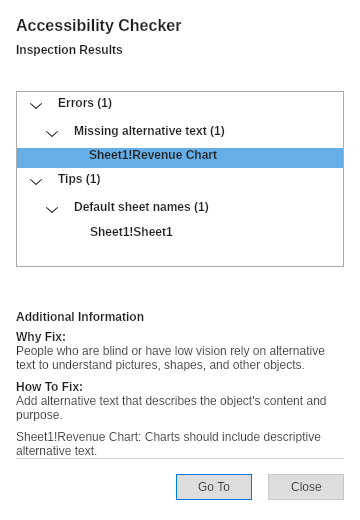
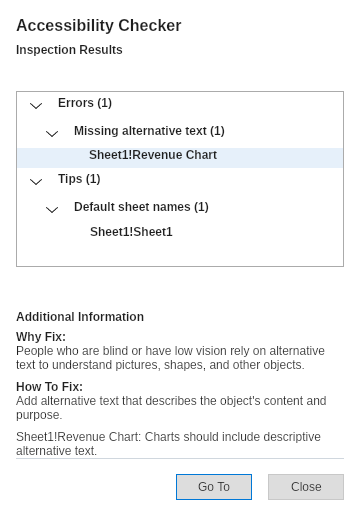
Align FreeX Accessibility Checker selection parity

Changed region(s): [[0.0306, 0.2769, 0.9778, 0.3385]]

diff --git a/src/FreeX.App.Avalonia/MainWindow.AccessibilityChecker.cs b/src/FreeX.App.Avalonia/MainWindow.AccessibilityChecker.cs
@@ -163,6 +163,17 @@ public sealed partial class MainWindow
                 new Setter(TemplatedControl.BorderThicknessProperty, new Thickness(0)),
             },
         });
+        resultsTree.Styles.Add(new Style(s => s.OfType<TreeViewItem>()
+            .Class(":selected")
+            .Template().OfType<Border>().Name("PART_LayoutRoot"))
+        {
+            Setters =
+            {
+                new Setter(Border.BackgroundProperty, new SolidColorBrush(Color.FromRgb(0xE6, 0xF0, 0xFA))),
+                new Setter(Border.BorderBrushProperty, Brushes.Transparent),
+                new Setter(Border.BorderThicknessProperty, new Thickness(0)),
+            },
+        });
         ApplyAutomation(resultsTree, plan.IssueListAutomation);
 
         var resultsBorder = new Border

diff --git a/tests/FreeX.App.Avalonia.Tests/AccessibilityCheckerSourceTests.cs b/tests/FreeX.App.Avalonia.Tests/AccessibilityCheckerSourceTests.cs
@@ -60,6 +60,8 @@ public sealed class AccessibilityCheckerSourceTests
         avaloniaSource.Should().Contain("AvaloniaCompactDialogChrome.WindowsStyle");
         avaloniaSource.Should().Contain("AccessibilityCheckerDialogMetrics.ResultsTreeHeight");
         avaloniaSource.Should().Contain("Class(\":selected\")");
+        avaloniaSource.Should().Contain("Template().OfType<Border>().Name(\"PART_LayoutRoot\")");
+        avaloniaSource.Should().Contain("Color.FromRgb(0xE6, 0xF0, 0xFA)");
         avaloniaSource.Should().Contain("AccessibilityCheckerDialogMetrics.ActionButtonWidth");
         wpfSource.Should().Contain("Width = AccessibilityCheckerDialogMetrics.Width;");
         wpfSource.Should().Contain("Height = AccessibilityCheckerDialogMetrics.Height;");

diff --git a/docs/parity/avalonia-parity-wave131-freex-accessibility-20260803.md b/docs/parity/avalonia-parity-wave131-freex-accessibility-20260803.md
@@ -1,0 +1,34 @@
+# Avalonia Parity Wave131: FreeX Accessibility Checker
+
+This wave makes one bounded visual parity improvement to FreeX `dialog.AccessibilityChecker`. The shared `AccessibilityCheckerDialogPlanner`, `AccessibilityCheckerDialogMetrics`, fixture, actions, automation metadata, and navigation ownership were already shared or correctly separated between WPF and Avalonia. The remaining high-signal product-owned mismatch in the fresh pair was Avalonia's selected TreeView row: the Fluent template's internal `PART_LayoutRoot` still rendered a saturated blue selection despite the existing item-level pale selection style.
+
+## Change
+
+Avalonia now applies the WPF-authoritative pale `#E6F0FA` selection fill and transparent border to the selected TreeView item's `PART_LayoutRoot`. The change is local to Accessibility Checker and does not replace the native TreeView template, expand/collapse behavior, selection behavior, keyboard focus, Go To routing, or shared dialog chrome.
+
+## Fresh evidence
+
+- Base: worker branch `codex/avalonia-parity-wave131-freex-accessibility-20260803` at `45af68c1e6beffe805b5917884f5c901a74da847`, current `origin/main`.
+- WPF: `FreeX.App.Host --parity-capture --parity-capture-target dialog.AccessibilityChecker`, current-source targeted direct parity renderer, `360x520` at `96 DPI`, exit `0`.
+- Avalonia: `tools/Run-LinuxParityCapture.ps1` from a fresh worker publish in Ubuntu 24.04 Docker/Xvfb, `--parity-capture-surface dialog.AccessibilityChecker`, `360x520` at `96 DPI`, `app_exit=0`, `capture_validated=true`.
+- Both promoted PNGs are nonblank, equal in logical and raw dimensions, and pass the expected-size/content gates. Only this dialog's PNGs and manifest rows were promoted. The cross-app dashboard was not regenerated.
+
+## Metrics
+
+| Metric | Before | After | Change |
+| --- | ---: | ---: | ---: |
+| Triage score | 0.084354 | 0.066619 | -21.02% |
+| Sample delta | 0.054555 | 0.044489 | -18.45% |
+| Luma delta | 0.008707 | 0.001039 | -88.07% |
+| Non-background delta | 0.020812 | 0.020812 | unchanged |
+
+The before values are a fresh matched WPF/Linux pair captured before editing, not stale canonical evidence. The after values are a fresh matched pair after the Avalonia edit. The canonical dialog visual summary was regenerated and its `dialog.AccessibilityChecker` row now reports the after values.
+
+## Residuals
+
+The score is improved, not zero. Remaining differences are primarily native/text rendering: Avalonia's Fluent TreeView disclosure chevrons versus the WPF direct parity renderer's literal `v` glyphs, font and anti-aliasing metrics, and native button surface/text rasterization. The non-background coverage delta is unchanged. This wave does not claim live WPF window capture parity because the WPF authority path is the repository's current planner-backed direct parity renderer used by the canonical evidence contract.
+
+## Focused verification
+
+- `dotnet test tests/FreeX.App.Avalonia.Tests/FreeX.App.Avalonia.Tests.csproj --configuration Release --filter FullyQualifiedName~AccessibilityCheckerSourceTests --logger "trx;LogFileName=wave131-accessibility-source.trx" --disable-build-servers -p:UseSharedCompilation=false -p:NodeReuse=false /nr:false -m:1`: passed `4/4`.
+- `powershell.exe -NoProfile -ExecutionPolicy Bypass -File tools/Generate-DialogVisualEvidenceSummary.ps1 -Check`: passed after canonical promotion.

diff --git a/docs/parity/dialog-visual-evidence-summary.md b/docs/parity/dialog-visual-evidence-summary.md
@@ -63,7 +63,6 @@ Outliers are ranked by a deterministic triage score: normalized 32x32 ARGB sampl
 | Surface id | WPF logical size | Avalonia logical size | Raw PNG sizes | Bucket | Evidence flag | Score | Sample delta | Luma delta | Non-bg delta |
 | --- | ---: | ---: | --- | --- | --- | ---: | ---: | ---: | ---: |
 | dialog.About | 560x420 | 560x420 | 560x420 px @ 96 DPI vs 560x420 px @ 96 DPI |  |  | 0.107 | 0.071 | 0.014 | 0.021 |
-| dialog.AccessibilityChecker | 360x520 | 360x520 | 360x520 px @ 96 DPI vs 360x520 px @ 96 DPI |  |  | 0.084 | 0.055 | 0.009 | 0.021 |
 | dialog.ShapeGradient | 500x300 | 500x300 | 500x300 px @ 96 DPI vs 500x300 px @ 96 DPI |  |  | 0.082 | 0.055 | 0.022 | 0.004 |
 | dialog.AllowEditRanges | 430x420 | 430x420 | 430x420 px @ 96 DPI vs 430x420 px @ 96 DPI |  |  | 0.079 | 0.022 | 0.014 | 0.042 |
 | dialog.Sparkline | 380x280 | 380x280 | 380x280 px @ 96 DPI vs 380x280 px @ 96 DPI |  |  | 0.077 | 0.054 | 0.001 | 0.022 |
@@ -72,6 +71,7 @@ Outliers are ranked by a deterministic triage score: normalized 32x32 ARGB sampl
 | dialog.ChangeChartType | 640x390 | 640x390 | 960x585 px @ 144 DPI vs 640x390 px @ 96 DPI |  |  | 0.070 | 0.036 | 0.008 | 0.025 |
 | dialog.PivotTableOptions.Display | 520x500 | 520x500 | 520x500 px @ 96 DPI vs 520x500 px @ 96 DPI |  |  | 0.069 | 0.045 | 0.006 | 0.019 |
 | dialog.InsertHyperlink | 560x300 | 560x300 | 840x450 px @ 144 DPI vs 560x300 px @ 96 DPI |  |  | 0.069 | 0.037 | 0.002 | 0.030 |
+| dialog.DataTable | 360x210 | 360x210 | 540x315 px @ 144 DPI vs 360x210 px @ 96 DPI |  |  | 0.068 | 0.020 | 0.008 | 0.040 |
 
 ## Scale-Aware Dimension Mismatch Details
 
@@ -90,7 +90,7 @@ These rows have a DPI-normalized checked-in PNG size that disagrees with the dia
 | Surface id | WPF PNG | WPF logical size | WPF raw PNG | WPF nonblank | Avalonia PNG | Avalonia logical size | Avalonia raw PNG | Avalonia nonblank | Dimension match | Score |
 | --- | --- | ---: | ---: | --- | --- | ---: | ---: | --- | --- | ---: |
 | dialog.About | dialog.About.png | 560x420 | 560x420 px @ 96 DPI | True | dialog.About.png | 560x420 | 560x420 px @ 96 DPI | True | True | 0.107 |
-| dialog.AccessibilityChecker | dialog.AccessibilityChecker.png | 360x520 | 360x520 px @ 96 DPI | True | dialog.AccessibilityChecker.png | 360x520 | 360x520 px @ 96 DPI | True | True | 0.084 |
+| dialog.AccessibilityChecker | dialog.AccessibilityChecker.png | 360x520 | 360x520 px @ 96 DPI | True | dialog.AccessibilityChecker.png | 360x520 | 360x520 px @ 96 DPI | True | True | 0.067 |
 | dialog.AddWatch | dialog.AddWatch.png | 360x170 | 360x170 px @ 96 DPI | True | dialog.AddWatch.png | 360x170 | 360x170 px @ 96 DPI | True | True | 0.036 |
 | dialog.AdvancedFilter | dialog.AdvancedFilter.png | 420x340 | 630x510 px @ 144 DPI | True | dialog.AdvancedFilter.png | 420x340 | 420x340 px @ 96 DPI | True | True | 0.057 |
 | dialog.AllowEditRanges | dialog.AllowEditRanges.png | 430x420 | 430x420 px @ 96 DPI | True | dialog.AllowEditRanges.png | 430x420 | 430x420 px @ 96 DPI | True | True | 0.079 |
